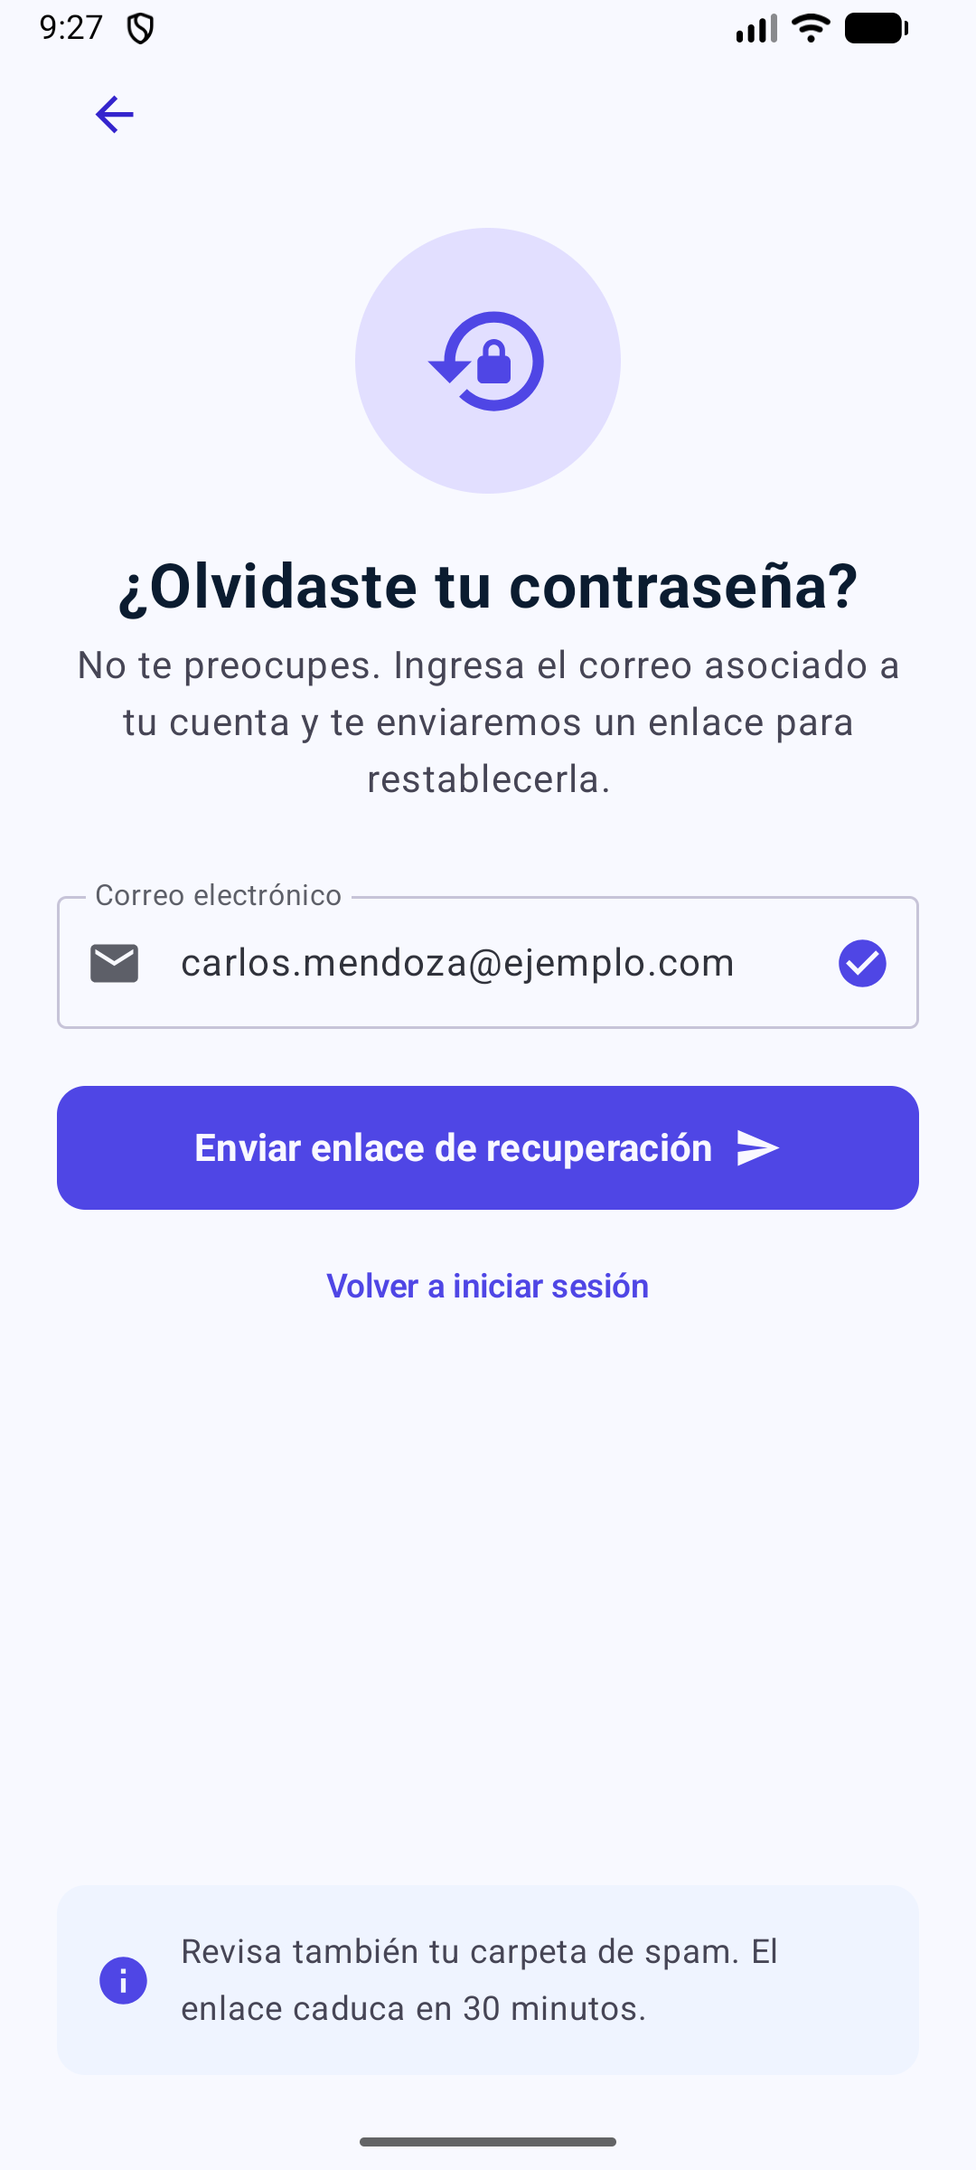
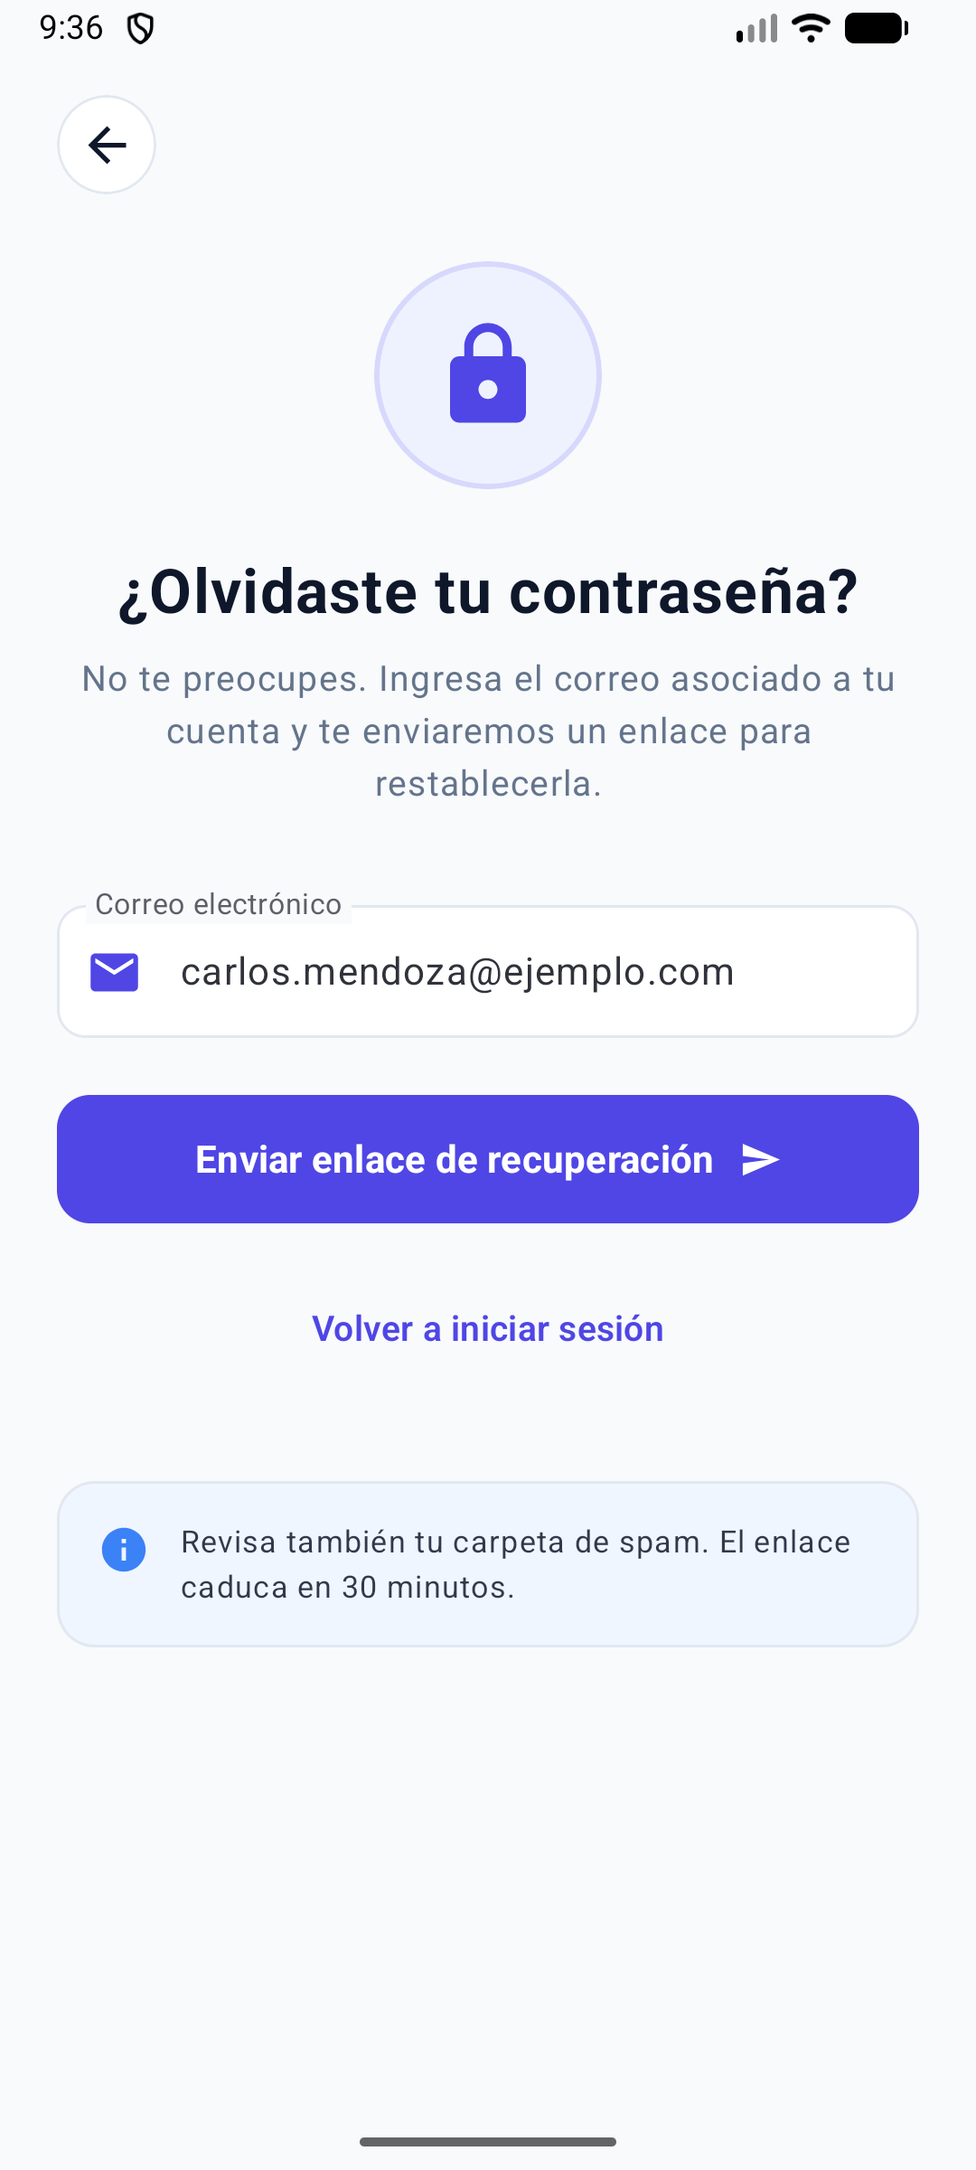
README: cómo se adaptó el código de Stitch, respuesta original y capturas nuevas

diff --git a/docs/stitch/respuesta-registro.md b/docs/stitch/respuesta-registro.md
@@ -1,0 +1,7 @@
+# Respuesta original de Google Stitch – registro
+
+Texto copiado tal cual del chat de Stitch (proyecto AppLoginTutorial). El chat de Stitch muestra todo en una sola línea; el código ordenado y adaptado al proyecto está en `app/src/main/java/com/example/composable/ui/screen/`.
+
+```text
+Aquí tienes el diseño visual de la pantalla de **"Crear cuenta"** y el código completo en **Jetpack Compose (Kotlin)** siguiendo las especificaciones de **Material Design 3**, respetando estrictamente las restricciones (sin estado reactivo, sin callbacks, valores de ejemplo hardcodeados y `onClick` vacíos). --- ### Código en Jetpack Compose (Kotlin) ```kotlin package com.example.app.ui.auth import androidx.compose.foundation.background import androidx.compose.foundation.border import androidx.compose.foundation.clickable import androidx.compose.foundation.layout.Arrangement import androidx.compose.foundation.layout.Box import androidx.compose.foundation.layout.Column import androidx.compose.foundation.layout.Row import androidx.compose.foundation.layout.Spacer import androidx.compose.foundation.layout.fillMaxSize import androidx.compose.foundation.layout.fillMaxWidth import androidx.compose.foundation.layout.height import androidx.compose.foundation.layout.padding import androidx.compose.foundation.layout.size import androidx.compose.foundation.layout.width import androidx.compose.foundation.rememberScrollState import androidx.compose.foundation.shape.CircleShape import androidx.compose.foundation.shape.RoundedCornerShape import androidx.compose.foundation.verticalScroll import androidx.compose.material.icons.Icons import androidx.compose.material.icons.automirrored.filled.ArrowBack import androidx.compose.material.icons.filled.Email import androidx.compose.material.icons.filled.Lock import androidx.compose.material.icons.filled.Person import androidx.compose.material.icons.filled.Visibility import androidx.compose.material3.Button import androidx.compose.material3.ButtonDefaults import androidx.compose.material3.Checkbox import androidx.compose.material3.CheckboxDefaults import androidx.compose.material3.HorizontalDivider import androidx.compose.material3.Icon import androidx.compose.material3.IconButton import androidx.compose.material3.MaterialTheme import androidx.compose.material3.OutlinedButton import androidx.compose.material3.OutlinedTextField import androidx.compose.material3.OutlinedTextFieldDefaults import androidx.compose.material3.Scaffold import androidx.compose.material3.Surface import androidx.compose.material3.Text import androidx.compose.runtime.Composable import androidx.compose.ui.Alignment import androidx.compose.ui.Modifier import androidx.compose.ui.draw.clip import androidx.compose.ui.graphics.Color import androidx.compose.ui.text.SpanStyle import androidx.compose.ui.text.buildAnnotatedString import androidx.compose.ui.text.font.FontWeight import androidx.compose.ui.text.input.PasswordVisualTransformation import androidx.compose.ui.text.style.TextAlign import androidx.compose.ui.text.withStyle import androidx.compose.ui.tooling.preview.Preview import androidx.compose.ui.unit.dp import androidx.compose.ui.unit.sp // Paleta de colores Índigo & Grises (Material Design 3) private val IndigoPrimary = Color(0xFF4F46E5) private val IndigoDark = Color(0xFF4338CA) private val IndigoContainer = Color(0xFFEEF2FF) private val BackgroundSurface = Color(0xFFF8FAFC) private val NeutralDark = Color(0xFF0F172A) private val NeutralMuted = Color(0xFF64748B) private val BorderLight = Color(0xFFE2E8F0) @Composable fun RegisterScreen() { Surface( modifier = Modifier.fillMaxSize(), color = BackgroundSurface ) { Column( modifier = Modifier .fillMaxSize() .verticalScroll(rememberScrollState()) .padding(horizontal = 24.dp) .padding(top = 16.dp, bottom = 32.dp) ) { // 1. Botón de flecha hacia atrás arriba a la izquierda IconButton( onClick = {}, modifier = Modifier .clip(CircleShape) .background(Color.White) .border(1.dp, BorderLight, CircleShape) .size(42.dp) ) { Icon( imageVector = Icons.AutoMirrored.Filled.ArrowBack, contentDescription = "Volver", tint = NeutralDark ) } Spacer(modifier = Modifier.height(24.dp)) // 2. Título grande: "Crea tu cuenta" Text( text = "Crea tu cuenta", fontSize = 30.sp, fontWeight = FontWeight.Bold, color = NeutralDark ) Spacer(modifier = Modifier.height(6.dp)) // 3. Subtítulo: "Empieza tu viaje con nosotros" Text( text = "Empieza tu viaje con nosotros", fontSize = 15.sp, color = NeutralMuted ) Spacer(modifier = Modifier.height(28.dp)) // 4. Campo: "Nombre completo" con icono de persona OutlinedTextField( value = "Carlos Mendoza", onValueChange = {}, label = { Text("Nombre completo") }, leadingIcon = { Icon( imageVector = Icons.Default.Person, contentDescription = "Icono Nombre", tint = IndigoPrimary ) }, singleLine = true, modifier = Modifier.fillMaxWidth(), shape = RoundedCornerShape(12.dp), colors = OutlinedTextFieldDefaults.colors( focusedBorderColor = IndigoPrimary, unfocusedBorderColor = BorderLight, focusedContainerColor = Color.White, unfocusedContainerColor = Color.White ) ) Spacer(modifier = Modifier.height(16.dp)) // 5. Campo: "Correo electrónico" con icono de sobre OutlinedTextField( value = "carlos.mendoza@ejemplo.com", onValueChange = {}, label = { Text("Correo electrónico") }, leadingIcon = { Icon( imageVector = Icons.Default.Email, contentDescription = "Icono Correo", tint = IndigoPrimary ) }, singleLine = true, modifier = Modifier.fillMaxWidth(), shape = RoundedCornerShape(12.dp), colors = OutlinedTextFieldDefaults.colors( focusedBorderColor = IndigoPrimary, unfocusedBorderColor = BorderLight, focusedContainerColor = Color.White, unfocusedContainerColor = Color.White ) ) Spacer(modifier = Modifier.height(16.dp)) // 6. Campo: "Contraseña" con icono de candado y ojo OutlinedTextField( value = "password1234", onValueChange = {}, label = { Text("Contraseña") }, leadingIcon = { Icon( imageVector = Icons.Default.Lock, contentDescription = "Icono Contraseña", tint = IndigoPrimary ) }, trailingIcon = { Icon( imageVector = Icons.Default.Visibility, contentDescription = "Alternar visibilidad", tint = NeutralMuted ) }, visualTransformation = PasswordVisualTransformation(), singleLine = true, modifier = Modifier.fillMaxWidth(), shape = RoundedCornerShape(12.dp), colors = OutlinedTextFieldDefaults.colors( focusedBorderColor = IndigoPrimary, unfocusedBorderColor = BorderLight, focusedContainerColor = Color.White, unfocusedContainerColor = Color.White ) ) Spacer(modifier = Modifier.height(16.dp)) // 7. Campo: "Confirmar contraseña" con icono de candado OutlinedTextField( value = "password1234", onValueChange = {}, label = { Text("Confirmar contraseña") }, leadingIcon = { Icon( imageVector = Icons.Default.Lock, contentDescription = "Icono Confirmar Contraseña", tint = IndigoPrimary ) }, visualTransformation = PasswordVisualTransformation(), singleLine = true, modifier = Modifier.fillMaxWidth(), shape = RoundedCornerShape(12.dp), colors = OutlinedTextFieldDefaults.colors( focusedBorderColor = IndigoPrimary, unfocusedBorderColor = BorderLight, focusedContainerColor = Color.White, unfocusedContainerColor = Color.White ) ) Spacer(modifier = Modifier.height(16.dp)) // 8. Checkbox: "Acepto los términos y condiciones" Row( verticalAlignment = Alignment.CenterVertically, modifier = Modifier.fillMaxWidth() ) { Checkbox( checked = true, onCheckedChange = {}, colors = CheckboxDefaults.colors( checkedColor = IndigoPrimary, checkmarkColor = Color.White ) ) Spacer(modifier = Modifier.width(4.dp)) val termsText = buildAnnotatedString { append("Acepto los ") withStyle(style = SpanStyle(color = IndigoPrimary, fontWeight = FontWeight.SemiBold)) { append("términos y condiciones") } } Text( text = termsText, fontSize = 14.sp, color = NeutralDark ) } Spacer(modifier = Modifier.height(24.dp)) // 9. Botón principal: "Crear cuenta" Button( onClick = {}, modifier = Modifier .fillMaxWidth() .height(54.dp), shape = RoundedCornerShape(14.dp), colors = ButtonDefaults.buttonColors( containerColor = IndigoPrimary, contentColor = Color.White ) ) { Text( text = "Crear cuenta", fontSize = 16.sp, fontWeight = FontWeight.Bold ) } Spacer(modifier = Modifier.height(24.dp)) // 10. Separador: "O regístrate con" Row( verticalAlignment = Alignment.CenterVertically, modifier = Modifier.fillMaxWidth() ) { HorizontalDivider( modifier = Modifier.weight(1f), color = BorderLight ) Text( text = "O regístrate con", fontSize = 13.sp, color = NeutralMuted, modifier = Modifier.padding(horizontal = 14.dp) ) HorizontalDivider( modifier = Modifier.weight(1f), color = BorderLight ) } Spacer(modifier = Modifier.height(24.dp)) // 11. Botón: "Continuar con Google" con icono OutlinedButton( onClick = {}, modifier = Modifier .fillMaxWidth() .height(52.dp), shape = RoundedCornerShape(14.dp), colors = ButtonDefaults.outlinedButtonColors( containerColor = Color.White, contentColor = NeutralDark ), border = ButtonDefaults.outlinedButtonBorder.copy( brush = androidx.compose.ui.graphics.SolidColor(BorderLight) ) ) { Row( verticalAlignment = Alignment.CenterVertically, horizontalArrangement = Arrangement.Center ) { // Círculo representativo para el logo de Google Box( modifier = Modifier .size(22.dp) .clip(CircleShape) .background(IndigoContainer), contentAlignment = Alignment.Center ) { Text( text = "G", fontSize = 14.sp, fontWeight = FontWeight.Bold, color = IndigoPrimary ) } Spacer(modifier = Modifier.width(10.dp)) Text( text = "Continuar con Google", fontSize = 15.sp, fontWeight = FontWeight.Medium ) } } Spacer(modifier = Modifier.height(28.dp)) // 12. Pie: "¿Ya tienes una cuenta? Inicia sesión" val footerText = buildAnnotatedString { append("¿Ya tienes una cuenta? ") withStyle(style = SpanStyle(color = IndigoPrimary, fontWeight = FontWeight.Bold)) { append("Inicia sesión") } } Text( text = footerText, fontSize = 14.sp, textAlign = TextAlign.Center, modifier = Modifier.fillMaxWidth() ) } } } @Preview(showBackground = true, widthDp = 390, heightDp = 844) @Composable fun RegisterScreenPreview() { MaterialTheme { RegisterScreen() } } ``` ### Características implementadas en el diseño visual: 1. **Material Design 3:** Componentes con esquinas suaves (`RoundedCornerShape` de 12 y 14dp), campos de texto delineados con fondos claros y elevaciones limpias. 2. **Jerarquía visual:** Título en alto contraste y subtítulo en gris atenuado para guiar la lectura natural. 3. **Detalles de accesibilidad y foco:** Contenedor interactivo para términos y condiciones con enlace en color índigo primario (#4F46E5), y botón con contraste óptimo para la acción primaria. 4. **Fiel a las restricciones:** Sin `remember`, sin `mutableStateOf`, callbacks vacíos y valores de ejemplo listos para preview.
+```

diff --git a/docs/stitch/respuesta-recuperar.md b/docs/stitch/respuesta-recuperar.md
@@ -1,0 +1,7 @@
+# Respuesta original de Google Stitch – recuperar
+
+Texto copiado tal cual del chat de Stitch (proyecto AppLoginTutorial). El chat de Stitch muestra todo en una sola línea; el código ordenado y adaptado al proyecto está en `app/src/main/java/com/example/composable/ui/screen/`.
+
+```text
+Aquí tienes el diseño visual de la pantalla de **"Recuperar contraseña"** y el código completo en **Jetpack Compose (Kotlin)** siguiendo las especificaciones de **Material Design 3**, manteniendo consistencia total con la pantalla de registro previa y respetando todas las restricciones (sin estados reactivos, sin callbacks, valores hardcodeados y `onClick` vacíos). --- ### Código en Jetpack Compose (Kotlin) ```kotlin package com.example.app.ui.auth import androidx.compose.foundation.background import androidx.compose.foundation.border import androidx.compose.foundation.layout.Arrangement import androidx.compose.foundation.layout.Box import androidx.compose.foundation.layout.Column import androidx.compose.foundation.layout.Row import androidx.compose.foundation.layout.Spacer import androidx.compose.foundation.layout.fillMaxSize import androidx.compose.foundation.layout.fillMaxWidth import androidx.compose.foundation.layout.height import androidx.compose.foundation.layout.padding import androidx.compose.foundation.layout.size import androidx.compose.foundation.layout.width import androidx.compose.foundation.rememberScrollState import androidx.compose.foundation.shape.CircleShape import androidx.compose.foundation.shape.RoundedCornerShape import androidx.compose.foundation.verticalScroll import androidx.compose.material.icons.Icons import androidx.compose.material.icons.automirrored.filled.ArrowBack import androidx.compose.material.icons.automirrored.filled.Send import androidx.compose.material.icons.filled.Email import androidx.compose.material.icons.filled.Info import androidx.compose.material.icons.filled.Lock import androidx.compose.material3.Button import androidx.compose.material3.ButtonDefaults import androidx.compose.material3.Card import androidx.compose.material3.CardDefaults import androidx.compose.material3.Icon import androidx.compose.material3.IconButton import androidx.compose.material3.MaterialTheme import androidx.compose.material3.OutlinedTextField import androidx.compose.material3.OutlinedTextFieldDefaults import androidx.compose.material3.Surface import androidx.compose.material3.Text import androidx.compose.material3.TextButton import androidx.compose.runtime.Composable import androidx.compose.ui.Alignment import androidx.compose.ui.Modifier import androidx.compose.ui.draw.clip import androidx.compose.ui.graphics.Color import androidx.compose.ui.text.font.FontWeight import androidx.compose.ui.text.style.TextAlign import androidx.compose.ui.tooling.preview.Preview import androidx.compose.ui.unit.dp import androidx.compose.ui.unit.sp // Paleta de tokens de color coherente con la pantalla de Registro private val IndigoPrimary = Color(0xFF4F46E5) private val IndigoLightContainer = Color(0xFFEEF2FF) private val BackgroundSurface = Color(0xFFF8FAFC) private val CardInfoBackground = Color(0xFFEFF6FF) private val NeutralDark = Color(0xFF0F172A) private val NeutralMuted = Color(0xFF64748B) private val BorderLight = Color(0xFFE2E8F0) private val InfoIconColor = Color(0xFF3B82F6) @Composable fun ForgotPasswordScreen() { Surface( modifier = Modifier.fillMaxSize(), color = BackgroundSurface ) { Column( modifier = Modifier .fillMaxSize() .verticalScroll(rememberScrollState()) .padding(horizontal = 24.dp) .padding(top = 16.dp, bottom = 32.dp), horizontalAlignment = Alignment.CenterHorizontally ) { // 1. Botón de flecha hacia atrás arriba a la izquierda Row( modifier = Modifier.fillMaxWidth(), horizontalArrangement = Arrangement.Start ) { IconButton( onClick = {}, modifier = Modifier .clip(CircleShape) .background(Color.White) .border(1.dp, BorderLight, CircleShape) .size(42.dp) ) { Icon( imageVector = Icons.AutoMirrored.Filled.ArrowBack, contentDescription = "Volver", tint = NeutralDark ) } } Spacer(modifier = Modifier.height(28.dp)) // 2. Círculo centrado con fondo índigo claro y un icono de candado grande Box( modifier = Modifier .size(96.dp) .clip(CircleShape) .background(IndigoLightContainer) .border(2.dp, IndigoPrimary.copy(alpha = 0.15f), CircleShape), contentAlignment = Alignment.Center ) { Icon( imageVector = Icons.Default.Lock, contentDescription = "Icono Candado", tint = IndigoPrimary, modifier = Modifier.size(48.dp) ) } Spacer(modifier = Modifier.height(28.dp)) // 3. Título centrado: "¿Olvidaste tu contraseña?" Text( text = "¿Olvidaste tu contraseña?", fontSize = 26.sp, fontWeight = FontWeight.Bold, color = NeutralDark, textAlign = TextAlign.Center ) Spacer(modifier = Modifier.height(10.dp)) // 4. Párrafo centrado explicativo Text( text = "No te preocupes. Ingresa el correo asociado a tu cuenta y te enviaremos un enlace para restablecerla.", fontSize = 15.sp, color = NeutralMuted, lineHeight = 22.sp, textAlign = TextAlign.Center, modifier = Modifier.padding(horizontal = 8.dp) ) Spacer(modifier = Modifier.height(32.dp)) // 5. Campo: "Correo electrónico" con icono de sobre OutlinedTextField( value = "carlos.mendoza@ejemplo.com", onValueChange = {}, label = { Text("Correo electrónico") }, leadingIcon = { Icon( imageVector = Icons.Default.Email, contentDescription = "Icono Correo", tint = IndigoPrimary ) }, singleLine = true, modifier = Modifier.fillMaxWidth(), shape = RoundedCornerShape(12.dp), colors = OutlinedTextFieldDefaults.colors( focusedBorderColor = IndigoPrimary, unfocusedBorderColor = BorderLight, focusedContainerColor = Color.White, unfocusedContainerColor = Color.White ) ) Spacer(modifier = Modifier.height(24.dp)) // 6. Botón principal con icono de avión de papel: "Enviar enlace de recuperación" Button( onClick = {}, modifier = Modifier .fillMaxWidth() .height(54.dp), shape = RoundedCornerShape(14.dp), colors = ButtonDefaults.buttonColors( containerColor = IndigoPrimary, contentColor = Color.White ) ) { Row( verticalAlignment = Alignment.CenterVertically, horizontalArrangement = Arrangement.Center ) { Text( text = "Enviar enlace de recuperación", fontSize = 16.sp, fontWeight = FontWeight.Bold ) Spacer(modifier = Modifier.width(10.dp)) Icon( imageVector = Icons.AutoMirrored.Filled.Send, contentDescription = "Enviar", modifier = Modifier.size(18.dp) ) } } Spacer(modifier = Modifier.height(16.dp)) // 7. Botón de texto: "Volver a iniciar sesión" TextButton( onClick = {}, modifier = Modifier.padding(vertical = 4.dp) ) { Text( text = "Volver a iniciar sesión", fontSize = 15.sp, fontWeight = FontWeight.SemiBold, color = IndigoPrimary ) } Spacer(modifier = Modifier.height(36.dp)) // 8. Tarjeta al final con icono de información Card( modifier = Modifier.fillMaxWidth(), shape = RoundedCornerShape(16.dp), colors = CardDefaults.cardColors( containerColor = CardInfoBackground ), border = androidx.compose.foundation.BorderStroke(1.dp, BorderLight) ) { Row( modifier = Modifier .fillMaxWidth() .padding(16.dp), verticalAlignment = Alignment.Top ) { Icon( imageVector = Icons.Default.Info, contentDescription = "Información", tint = InfoIconColor, modifier = Modifier .size(24.dp) .padding(top = 2.dp) ) Spacer(modifier = Modifier.width(12.dp)) Text( text = "Revisa también tu carpeta de spam. El enlace caduca en 30 minutos.", fontSize = 13.sp, color = NeutralDark.copy(alpha = 0.85f), lineHeight = 19.sp ) } } } } } @Preview(showBackground = true, widthDp = 390, heightDp = 844) @Composable fun ForgotPasswordScreenPreview() { MaterialTheme { ForgotPasswordScreen() } } ``` ### Decisiones de Diseño y Coherencia: 1. **Consistencia con Registro:** Reutiliza las mismas dimensiones (`RoundedCornerShape(12.dp)` en campos y `14.dp` en botón principal), elevación plana limpia y la misma paleta Índigo (`#4F46E5`) con fondos claros. 2. **Jerarquía centrada:** La composición destaca el candado en su contenedor índigo claro suave (`#EEF2FF`), reforzando visualmente el propósito de seguridad y recuperación. 3. **Tarjeta informativa MD3:** Ubicada al pie con un sutil contraste azul/gris para ofrecer contexto útil sin distraer del CTA primario.
+```

diff --git a/README.md b/README.md
@@ -7,12 +7,22 @@ Aplicaciones Móviles Android · SENA ADSO · Manuela Córdoba Robledo
 | Pantalla | Archivo | Cómo se hizo |
 |----------|---------|--------------|
 | Login | `ui/screen/LoginScreen.kt` | A mano, paso a paso (estados con `remember`, ojo para mostrar la contraseña) |
-| Registro | `ui/screen/RegistroScreen.kt` | Diseñada en Google Stitch (proyecto **AppLoginTutorial**) y pasada a Compose |
-| Recuperar contraseña | `ui/screen/RecuperarScreen.kt` | Diseñada en Google Stitch y pasada a Compose |
+| Registro | `ui/screen/RegistroScreen.kt` | Diseño y código Jetpack Compose generados por Google Stitch (proyecto **AppLoginTutorial**, Prompt 1) |
+| Recuperar contraseña | `ui/screen/RecuperarScreen.kt` | Diseño y código Jetpack Compose generados por Google Stitch (Prompt 2) |
 
 `MainActivity.kt` abre la app en el Login.
 
-Las pantallas de Registro y Recuperar son **solo diseño**: no usan `remember` ni `mutableStateOf`, los campos tienen valores de ejemplo y los botones tienen `onClick` vacío. Stitch entregó el diseño en HTML, así que se pasó a Jetpack Compose con las mismas reglas del prompt de conversión de la guía. Cada una tiene su `@Preview`.
+Las pantallas de Registro y Recuperar son **solo diseño**: no usan `remember` ni `mutableStateOf`, los campos tienen valores de ejemplo y los botones tienen `onClick` vacío. Cada una tiene su `@Preview`.
+
+### Cómo se adaptó el código de Stitch
+
+Stitch entregó el código Kotlin en su respuesta del chat (la respuesta original está en [`docs/stitch/`](docs/stitch/)). Para que funcionara en este proyecto se le hicieron estos cambios, que también están anotados al inicio de cada archivo:
+
+- **Package:** Stitch usó `com.example.app.ui.auth`; se cambió a `com.example.composable.ui.screen`, como pide la guía.
+- **Nombres:** `RegisterScreen` → `RegistroScreen` y `ForgotPasswordScreen` → `RecuperarScreen`.
+- **Sin `remember`:** Stitch agregó `verticalScroll(rememberScrollState())`; se quitó porque la actividad pide no usar `remember` y las pantallas caben completas sin scroll.
+- **Barra de estado:** se agregó `systemBarsPadding()` para que la flecha de volver no quede debajo de la hora y la batería.
+- **Preview:** usa `ComposableTheme`, el tema del proyecto, en vez de `MaterialTheme` solo.
 
 ## Las pantallas corriendo en el emulador
 
